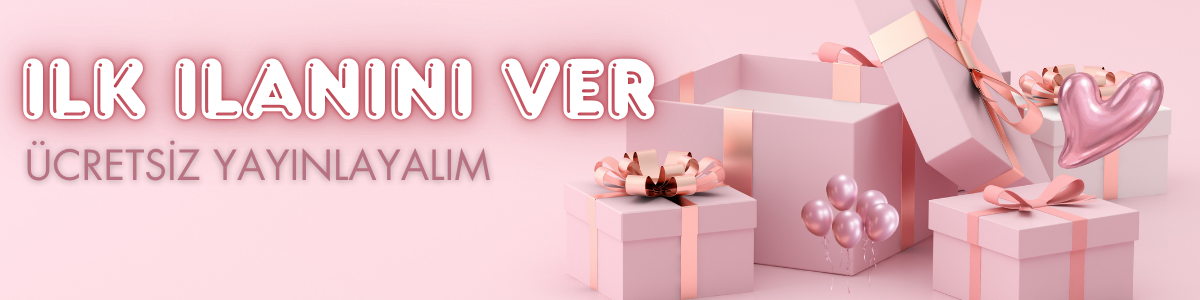
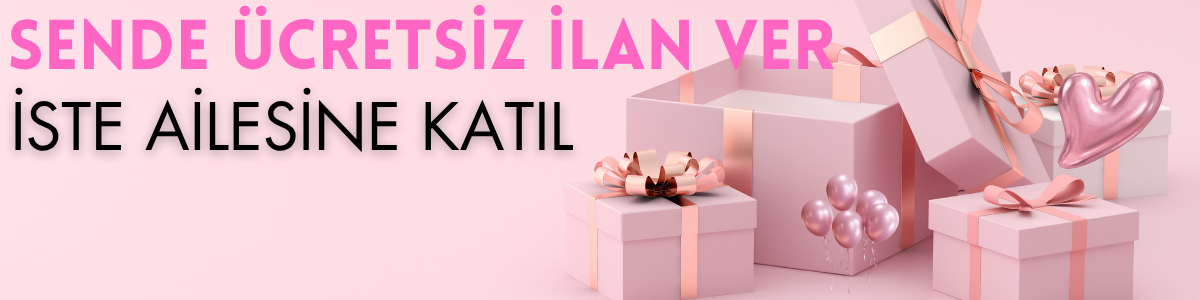
düzletme

Changed region(s): [[0.0, 0.03, 0.7092, 0.6]]

diff --git a/lib/features/mesajlar/data/mesaj_repository.dart b/lib/features/mesajlar/data/mesaj_repository.dart
@@ -1,5 +1,4 @@
 import 'dart:io';
-import 'package:flutter/foundation.dart';
 import 'package:cloud_firestore/cloud_firestore.dart';
 import 'package:cloud_functions/cloud_functions.dart';
 import 'package:firebase_storage/firebase_storage.dart';
@@ -7,6 +6,7 @@ import 'package:riverpod_annotation/riverpod_annotation.dart';
 import '../domain/mesaj_model.dart';
 import '../domain/islem_durumu.dart';
 import '../../../shared/constants/app_constants.dart';
+import '../../../shared/utils/app_hata_yonetici.dart';
 
 part 'mesaj_repository.g.dart';
 
@@ -185,8 +185,8 @@ class MesajRepository {
         }
         await batch.commit();
       }
-    } catch (e) {
-      debugPrint('[MesajRepository] okunduIsaretle hatası: $e');
+    } catch (e, s) {
+      AppHataYonetici.logla(e, s, etiket: 'mesajRepository.okunduIsaretle');
     }
   }
 
@@ -311,8 +311,8 @@ class MesajRepository {
         'gondereId':   gondereId,
         'gondereAd':   gondereAd,
       });
-    } catch (e) {
-      debugPrint('[MesajRepository] islemBildirimiYaz hatası: $e');
+    } catch (e, s) {
+      AppHataYonetici.logla(e, s, etiket: 'mesajRepository.islemBildirimiYaz');
     }
   }
 
@@ -408,8 +408,8 @@ class MesajRepository {
         'sohbetId':   sohbetId,
         'metin':      metin,
       });
-    } catch (e) {
-      debugPrint('[MesajRepository] mesajBildirimiGonder hatası: $e');
+    } catch (e, s) {
+      AppHataYonetici.logla(e, s, etiket: 'mesajRepository.mesajBildirimiGonder');
     }
   }
 
@@ -420,46 +420,6 @@ class MesajRepository {
       if (!doc.exists) return <String, dynamic>{};
       return Map<String, dynamic>.from(
           doc.data() as Map<String, dynamic>? ?? {});
-    });
-  }
-
-  Stream<Map<String, dynamic>> islemDurumuStream(String sohbetId) {
-    return _sohbetler.doc(sohbetId).snapshots().map((doc) {
-      if (!doc.exists) return <String, dynamic>{};
-      final d = doc.data() as Map<String, dynamic>;
-      return Map<String, dynamic>.from(d['islemDurumlari'] ?? {});
-    });
-  }
-
-  Stream<String> ilanSahibiIdStream(String sohbetId) {
-    return _sohbetler.doc(sohbetId).snapshots().map((doc) {
-      if (!doc.exists) return '';
-      final d = doc.data() as Map<String, dynamic>;
-      return d['ilanSahibiId'] as String? ?? '';
-    });
-  }
-
-  Stream<String> ilanTipStream(String sohbetId) {
-    return _sohbetler.doc(sohbetId).snapshots().map((doc) {
-      if (!doc.exists) return 'istek';
-      final d = doc.data() as Map<String, dynamic>;
-      return d['ilanTip'] as String? ?? 'istek';
-    });
-  }
-
-  Stream<List<String>> sohbetKullanicilarStream(String sohbetId) {
-    return _sohbetler.doc(sohbetId).snapshots().map((doc) {
-      if (!doc.exists) return <String>[];
-      final d = doc.data() as Map<String, dynamic>;
-      return List<String>.from(d['kullanicilar'] ?? []);
-    });
-  }
-
-  Stream<String> ilanBaslikStream(String sohbetId) {
-    return _sohbetler.doc(sohbetId).snapshots().map((doc) {
-      if (!doc.exists) return '';
-      final d = doc.data() as Map<String, dynamic>;
-      return (d['ilanBaslik'] as String?) ?? '';
     });
   }
 }

diff --git a/lib/features/profil/providers/profil_provider.g.dart b/lib/features/profil/providers/profil_provider.g.dart
@@ -235,10 +235,10 @@ final class EngellenenlerProvider
     extends
         $FunctionalProvider<
           AsyncValue<List<String>>,
-          List<String>,
-          Stream<List<String>>
+          AsyncValue<List<String>>,
+          AsyncValue<List<String>>
         >
-    with $FutureModifier<List<String>>, $StreamProvider<List<String>> {
+    with $Provider<AsyncValue<List<String>>> {
   EngellenenlerProvider._()
     : super(
         from: null,
@@ -255,17 +255,25 @@ final class EngellenenlerProvider
 
   @$internal
   @override
-  $StreamProviderElement<List<String>> $createElement(
+  $ProviderElement<AsyncValue<List<String>>> $createElement(
     $ProviderPointer pointer,
-  ) => $StreamProviderElement(pointer);
+  ) => $ProviderElement(pointer);
 
   @override
-  Stream<List<String>> create(Ref ref) {
+  AsyncValue<List<String>> create(Ref ref) {
     return engellenenler(ref);
+  }
+
+  /// {@macro riverpod.override_with_value}
+  Override overrideWithValue(AsyncValue<List<String>> value) {
+    return $ProviderOverride(
+      origin: this,
+      providerOverride: $SyncValueProvider<AsyncValue<List<String>>>(value),
+    );
   }
 }
 
-String _$engellenenlerHash() => r'c75318ff134d7f08cd483e7cc5bd33b22293c3bd';
+String _$engellenenlerHash() => r'89a1a45f50240b8744888cf384637843156a8269';
 
 @ProviderFor(Sikayet)
 final sikayetProvider = SikayetProvider._();

diff --git a/lib/features/ilanlar/providers/ilan_provider.dart b/lib/features/ilanlar/providers/ilan_provider.dart
@@ -144,8 +144,10 @@ class IstekIlanlar extends _$IstekIlanlar {
         sonTarih: state.sonTarih!,
         siralama: 'olusturma',
       );
+      // Set ile O(1) arama — eskiden state.ilanlar.any() ile O(n²) idi
+      final mevcutIdler = state.ilanlar.map((m) => m.id).toSet();
       state = state.copyWith(
-        ilanlar: [...state.ilanlar, ...sonuc.ilanlar.where((i) => !state.ilanlar.any((m) => m.id == i.id))],
+        ilanlar: [...state.ilanlar, ...sonuc.ilanlar.where((i) => !mevcutIdler.contains(i.id))],
         sonTarih: sonuc.sonTarih ?? state.sonTarih,
         dahaFazlaVar: !sonuc.bitti,
         yukleniyor: false,
@@ -249,8 +251,10 @@ class TasiyiciIlanlar extends _$TasiyiciIlanlar {
         sonTarih: state.sonTarih!,
         siralama: state.siralama,
       );
+      // Set ile O(1) arama — eskiden state.ilanlar.any() ile O(n²) idi
+      final mevcutIdler = state.ilanlar.map((m) => m.id).toSet();
       state = state.copyWith(
-        ilanlar: [...state.ilanlar, ...sonuc.ilanlar.where((i) => !state.ilanlar.any((m) => m.id == i.id))],
+        ilanlar: [...state.ilanlar, ...sonuc.ilanlar.where((i) => !mevcutIdler.contains(i.id))],
         sonTarih: sonuc.sonTarih ?? state.sonTarih,
         dahaFazlaVar: !sonuc.bitti,
         yukleniyor: false,
@@ -478,7 +482,10 @@ Stream<bool> ilanFavorideMi(Ref ref, String ilanId) {
   );
 }
 
-@Riverpod(keepAlive: true)
+// keepAlive kasıtlı olarak kaldırıldı — family provider'da keepAlive, her farklı
+// kullaniciId için ayrı bir stream instance'ı sonsuza kadar hafızada biriktirir.
+// autoDispose (varsayılan) ile, provider widget tree'den kalkınca stream kapanır.
+@riverpod
 Stream<List<IlanModel>> kullaniciIlanlarStream(Ref ref, String kullaniciId) {
   return ref.watch(ilanRepositoryProvider).kullaniciIlanlarStream(kullaniciId);
 }

diff --git a/lib/features/profil/providers/profil_provider.dart b/lib/features/profil/providers/profil_provider.dart
@@ -109,11 +109,15 @@ class Engelleme extends _$Engelleme {
   }
 }
 
+// Eskiden ayrı bir engellenenlerStream(uid) açıyordu — bu, benimKullaniciProfil
+// ile aynı dökümanı 2 kez dinlemek anlamına geliyordu. Artık zaten açık olan
+// benimKullaniciProfil stream'inden map ediliyor — ekstra Firestore listener yok.
+// AsyncValue<List<String>> döndürür — kullanım tarafları (.value ?? []) değişmez.
 @riverpod
-Stream<List<String>> engellenenler(Ref ref) {
-  final uid = ref.watch(currentUserProvider)?.uid;
-  if (uid == null) return Stream.value([]);
-  return ref.watch(kullaniciRepositoryProvider).engellenenlerStream(uid);
+AsyncValue<List<String>> engellenenler(Ref ref) {
+  return ref
+      .watch(benimKullaniciProfilProvider)
+      .whenData((profil) => profil?.engellenenler ?? []);
 }
 
 @riverpod

diff --git a/lib/features/ilanlar/providers/ilan_provider.g.dart b/lib/features/ilanlar/providers/ilan_provider.g.dart
@@ -41,7 +41,7 @@ final class IstekIlanlarProvider
   }
 }
 
-String _$istekIlanlarHash() => r'efeff5bfa6cc1c407eac0507a18112ff61ae322c';
+String _$istekIlanlarHash() => r'69c76fcf4ffbeb97da4b7ef19001904787fcb665';
 
 abstract class _$IstekIlanlar extends $Notifier<IlanListeState> {
   IlanListeState build();
@@ -93,7 +93,7 @@ final class TasiyiciIlanlarProvider
   }
 }
 
-String _$tasiyiciIlanlarHash() => r'23744aecacfefa083ec0526f38b039144e8193c6';
+String _$tasiyiciIlanlarHash() => r'298f63eca821e6539b41352b52e5f88ae8935be9';
 
 abstract class _$TasiyiciIlanlar extends $Notifier<IlanListeState> {
   IlanListeState build();
@@ -444,7 +444,7 @@ final class KullaniciIlanlarStreamProvider
   }) : super(
          retry: null,
          name: r'kullaniciIlanlarStreamProvider',
-         isAutoDispose: false,
+         isAutoDispose: true,
          dependencies: null,
          $allTransitiveDependencies: null,
        );
@@ -484,7 +484,7 @@ final class KullaniciIlanlarStreamProvider
 }
 
 String _$kullaniciIlanlarStreamHash() =>
-    r'708ffde71c4c9d4e00c11355ac2a56e56c834c6b';
+    r'a77ed489851dce352f3d8a361c56e258163b1e90';
 
 final class KullaniciIlanlarStreamFamily extends $Family
     with $FunctionalFamilyOverride<Stream<List<IlanModel>>, String> {
@@ -494,7 +494,7 @@ final class KullaniciIlanlarStreamFamily extends $Family
         name: r'kullaniciIlanlarStreamProvider',
         dependencies: null,
         $allTransitiveDependencies: null,
-        isAutoDispose: false,
+        isAutoDispose: true,
       );
 
   KullaniciIlanlarStreamProvider call(String kullaniciId) =>

diff --git a/lib/features/home/providers/kesfet_vitrin_providers.dart b/lib/features/home/providers/kesfet_vitrin_providers.dart
@@ -124,17 +124,17 @@ List<IlanModel> kesfetDutyFree(Ref ref) {
 
 @riverpod
 List<IlanModel> kesfetHeroBanner(Ref ref) {
+  final tumIlanlar = _tumIlanlar(ref); // tek çağrı — eskiden 2 kez çağrılıyordu
   final esik = DateTime.now().subtract(const Duration(days: 7));
-  final liste = _tumIlanlar(ref)
+  final liste = tumIlanlar
       .where((i) => i.olusturmaTarihi != null && i.olusturmaTarihi!.isAfter(esik))
       .toList()
     ..sort((a, b) => b.goruntulenmeSayisi.compareTo(a.goruntulenmeSayisi));
 
-  // Eğer son 7 günde yeterli ilan yoksa genel en çok görüntülenenlerle tamamla
   if (liste.length >= 10) return liste.take(15).toList();
 
   final seen = <String>{...liste.map((i) => i.id)};
-  final ek = _tumIlanlar(ref)
+  final ek = tumIlanlar
       .where((i) => seen.add(i.id))
       .toList()
     ..sort((a, b) => b.goruntulenmeSayisi.compareTo(a.goruntulenmeSayisi));

diff --git a/lib/features/ilanlar/data/ilan_repository.dart b/lib/features/ilanlar/data/ilan_repository.dart
@@ -162,11 +162,12 @@ class IlanRepository {
 
   double _hesapla(IlanModel i) {
     final gunFark = DateTime.now().difference(
-        i.olusturmaTarihi ?? DateTime.now()).inDays.toDouble();
+        i.olusturmaTarihi ?? DateTime.now()).inHours / 24.0;
     double tazelik = 0;
     if (gunFark < 1) { tazelik = 10; }
     else if (gunFark < 3) { tazelik = 6; }
     else if (gunFark < 7) { tazelik = 3; }
+    else if (gunFark < 30) { tazelik = 1; } // Cloud Functions ve kesfet_vitrin_providers ile tutarlı
     final resimPuan = i.resimUrller.length >= 5 ? 5.0
         : i.resimUrller.length >= 3 ? 3.0
         : i.resimUrller.isNotEmpty ? 1.0 : 0.0;